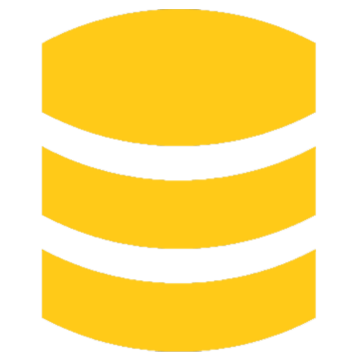
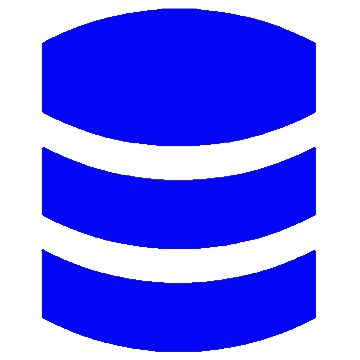
Competences finished

diff --git a/src/Components/Competences/index.jsx b/src/Components/Competences/index.jsx
@@ -15,17 +15,21 @@ return(
 
       <div className='block-1'>
         <img src= {frontend} alt='frontend-logo'/>
+        <h3>Frontend</h3>
         <ul>
-          <li>HTML5</li>
-          <li>CSS3/SASS/SCSS</li>
           <li>JavaScript</li>
           <li>ReactJs</li>
           <li>Angular</li>
+          <li>Bootstrap</li>
+          <li>tailwind</li>
+          <li>HTML5</li>
+          <li>CSS3/SASS/SCSS</li>
         </ul>
       </div>
 
       <div className='block-2'>
         <img src= {backend} alt='backend-logo'/>
+        <h3>Backend</h3>
         <ul>
         <li>PHP</li>
         <li>Symfony</li>
@@ -33,17 +37,19 @@ return(
         <li>.Net</li>
         <li>Node.js</li>
         <li>Express.js</li>
+        <li>SQL / noSQL</li>
         </ul>
       </div>
 
       <div className='block-3'>
         <img src= {outils} alt='outils-logo'/>
-        <ul> 
-          <li>Mysql</li>
-          <li>MongoDb</li>
+        <h3>Outils</h3>
+        <ul>
           <li>Visual Studio Code</li>
           <li>Visual Studio</li>
           <li>Github</li>
+          <li>Bitbucket</li>
+          <li>Jira</li>
           <li>Docker</li>
           <li>Figma</li>
         </ul>

diff --git a/src/Components/Style/Home.css b/src/Components/Style/Home.css
@@ -181,6 +181,7 @@ h1{
     display: flex;
     flex-direction: column;
     align-items: center;
+    padding: 20px 0;
     width: 100%;
 }
 
@@ -195,19 +196,23 @@ h1{
 #Competences div ul{
     display: flex;
     flex-direction: column;
-    align-items: flex-start;
+    align-items: center;
     gap:20px;
+    text-align: center;
+    padding: 0;
 }
 
 #Competences ul li{
-    text-decoration: overline;
     font-size : 18px;
-    font-style: italic;
+}
+
+#Competences h3{
+    font-size: 30px;
 }
 
 footer{
     padding-top: 3%;
-    background-color: black;
+    background-color: rgba(3, 5, 245, 0.8);
   
 }
 
@@ -286,7 +291,6 @@ footer h2{
 }
 
 .image-container h3{
-
     font-size: 30px;
 }
 
